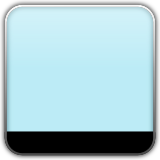
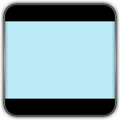
Change Products Item BoxSize

Changed region(s): [[0.025, 0.025, 0.975, 0.425]]

diff --git a/src/productdelegate.cpp b/src/productdelegate.cpp
@@ -44,7 +44,7 @@ void ProductDelegate::paint(QPainter *painter, const QStyleOptionViewItem &optio
     else
       pixName = KStandardDirs::locate("appdata", "images/itemBox.png");
     
-    painter->drawPixmap(option.rect.x()+5,option.rect.y()+5, QPixmap(pixName));
+    painter->drawPixmap(option.rect.x()+5,option.rect.y()+5, QPixmap(pixName));//only moves the itembox.png
 
     //get item data
     const QAbstractItemModel *model = index.model();
@@ -74,7 +74,7 @@ void ProductDelegate::paint(QPainter *painter, const QStyleOptionViewItem &optio
     else {
       pix = QPixmap(DesktopIcon("iotpos-box", 64));
     }
-    int max = 128;
+    int max = 86;
     if ((pix.height() > max) || (pix.width() > max) ) {
       if (pix.height() == pix.width()) {
         pix = pix.scaled(QSize(max, max));
@@ -87,7 +87,7 @@ void ProductDelegate::paint(QPainter *painter, const QStyleOptionViewItem &optio
       }
     }
     int x = option.rect.x() + (option.rect.width()/2) - (pix.width()/2);
-    int y = option.rect.y() + (option.rect.height()/2) - (pix.height()/2) - 10;
+    int y = option.rect.y() + (option.rect.height()/2) - (pix.height()/2) - 0;
     //painting photo
     if (!pix.isNull()) painter->drawPixmap(x,y, pix);
 
@@ -110,11 +110,11 @@ void ProductDelegate::paint(QPainter *painter, const QStyleOptionViewItem &optio
     painter->setFont(font);
     if (option.state & QStyle::State_Selected) {
       painter->setPen(Qt::yellow);
-      painter->drawText(option.rect.x()+10,option.rect.y()+138, 150,20,  Qt::AlignCenter, nameToDisplay);
+      painter->drawText(option.rect.x()+0,option.rect.y()+102, 130,20,  Qt::AlignCenter, nameToDisplay);
     }
     else {
       painter->setPen(Qt::white);
-      painter->drawText(option.rect.x()+10,option.rect.y()+138, 150,20,  Qt::AlignCenter, nameToDisplay);
+      painter->drawText(option.rect.x()+0,option.rect.y()+102, 130,20,  Qt::AlignCenter, nameToDisplay);
     }
 
     //painting stock Availability
@@ -124,36 +124,36 @@ void ProductDelegate::paint(QPainter *painter, const QStyleOptionViewItem &optio
         naStr = i18n("Unlimited Stock");
       else
         naStr = i18n(" Out of stock ");
-      font = QFont("Trebuchet MS", 12);
+      font = QFont("Trebuchet MS", 8);
       font.setBold(true);
       font.setItalic(true);
       painter->setFont(font);
       painter->setBackgroundMode(Qt::OpaqueMode);
       painter->setPen(Qt::red);
       painter->setBackground(QColor(255,180,0,160));
-      painter->drawText(option.rect.x()+10,
-                      option.rect.y()+(option.rect.height()/2)-10,
-                      150, 20, Qt::AlignCenter, naStr);
+      painter->drawText(option.rect.x()+13,
+                      option.rect.y()+(option.rect.height()/2)-0,
+                      102, 20, Qt::AlignCenter, naStr);
       painter->setBackgroundMode(Qt::TransparentMode);
     }
     
     //painting code number
-    font = QFont("Trebuchet MS", 9);
+    font = QFont("Trebuchet MS", 8);
     font.setBold(false);
     font.setItalic(true);
     painter->setFont(font);
     painter->setBackgroundMode(Qt::TransparentMode);
-    painter->setPen(Qt::darkGray);
+    painter->setPen(Qt::white);
     painter->setBackground(QColor(255,225,0,160));
     painter->drawText(option.rect.x()+10,
                       option.rect.y()+10,
-                      150, 20, Qt::AlignCenter, strCode);
+                      102, 20, Qt::AlignCenter, strCode);
     painter->setBackgroundMode(Qt::TransparentMode);
 
     //painting things like isARawProduct and isAGroup
     //TODO: Paint an icon instead of text!
     if (isRaw) {
-      font = QFont("Trebuchet MS", 9);
+      font = QFont("Trebuchet MS", 8);
       font.setBold(true);
       font.setItalic(false);
       painter->setFont(font);
@@ -162,16 +162,16 @@ void ProductDelegate::paint(QPainter *painter, const QStyleOptionViewItem &optio
       painter->setBackground(QColor(255,180,0,160));
       QString naStr = i18n(" Raw Product ");
       painter->drawText(option.rect.x()+10,
-                        option.rect.y()+22,
-                        150, 20, Qt::AlignCenter, naStr);
+                        option.rect.y()+60,
+                        102, 20, Qt::AlignCenter, naStr);
                         painter->setBackgroundMode(Qt::TransparentMode);
     } 
     if (isGroup) {
       //load pixmap
       pix = QPixmap(DesktopIcon("iotpos-groups", 32));
       painter->drawPixmap(option.rect.x()+10,
-                        option.rect.y()+20,
-                        /*150, 20, */ pix /*Qt::AlignCenter, naStr*/);
+                        option.rect.y()+30,
+                        /*102, 20, */ pix /*Qt::AlignCenter, naStr*/);
                         painter->setBackgroundMode(Qt::TransparentMode);
     }
     if (nonDiscountItem) {
@@ -179,7 +179,7 @@ void ProductDelegate::paint(QPainter *painter, const QStyleOptionViewItem &optio
       pix = QPixmap(DesktopIcon("iotpos-nondiscount", 32));
       painter->drawPixmap(option.rect.x()+10,
                         option.rect.y()+20,
-                        /*150, 20, */ pix /*Qt::AlignCenter, naStr*/);
+                        /*102, 20, */ pix /*Qt::AlignCenter, naStr*/);
                         painter->setBackgroundMode(Qt::TransparentMode);
     }
 }
@@ -188,7 +188,7 @@ void ProductDelegate::paint(QPainter *painter, const QStyleOptionViewItem &optio
 QSize ProductDelegate::sizeHint(const QStyleOptionViewItem &optionUnused,
                              const QModelIndex &indexUnused) const
 {
-  return QSize(170,170);
+  return QSize(150,150);
 }
 
 #include "productdelegate.moc"

diff --git a/src/main.cpp b/src/main.cpp
@@ -104,6 +104,8 @@ int main(int argc, char **argv)
             //process.startDetached("/bin/sh", QStringList()<< "/home/pi/iotpos/scripts/dropbox.sh");*/
             iotpos *widget = new iotpos;
             widget->show();
+            widget->hide();
+            widget->show();
             splash->finish(widget);
         }
         else
@@ -112,6 +114,8 @@ int main(int argc, char **argv)
             for (; i < args->count(); i++)
             {
                 iotpos *widget = new iotpos;
+                widget->show();
+                widget->hide();
                 widget->show();
                 qDebug()<<"iotpos "<<i;
             }

diff --git a/iotstock/src/iotstockview.cpp b/iotstock/src/iotstockview.cpp
@@ -1058,7 +1058,7 @@ void iotstockView::setupProductsModel()
 
     ui_mainview.productsView->setModel(productsModel);
     ui_mainview.productsView->setViewMode(QListView::IconMode);
-    ui_mainview.productsView->setGridSize(QSize(170,170));
+    ui_mainview.productsView->setGridSize(QSize(128,128));
     ui_mainview.productsView->setEditTriggers(QAbstractItemView::NoEditTriggers);
     ui_mainview.productsView->setResizeMode(QListView::Adjust);
     ui_mainview.productsView->setModelColumn(productsModel->fieldIndex("photo"));

diff --git a/src/iotposview.cpp b/src/iotposview.cpp
@@ -4446,7 +4446,7 @@ void iotposView::setupModel()
 
     ui_mainview.listView->setModelColumn(productsModel->fieldIndex("photo"));
     ui_mainview.listView->setViewMode(QListView::IconMode);
-    ui_mainview.listView->setGridSize(QSize(170,170));
+    ui_mainview.listView->setGridSize(QSize(128,128));
     ui_mainview.listView->setEditTriggers(QAbstractItemView::NoEditTriggers);
     ui_mainview.listView->setMouseTracking(true); //for the tooltip
 

diff --git a/iotstock/src/usersdelegate.cpp b/iotstock/src/usersdelegate.cpp
@@ -112,7 +112,7 @@ void UsersDelegate::paint(QPainter *painter, const QStyleOptionViewItem &option,
 QSize UsersDelegate::sizeHint(const QStyleOptionViewItem &optionUnused,
                              const QModelIndex &indexUnused) const
 {
-  return QSize(170,170);
+  return QSize(128,128);
 }
 
 #include "usersdelegate.moc"
